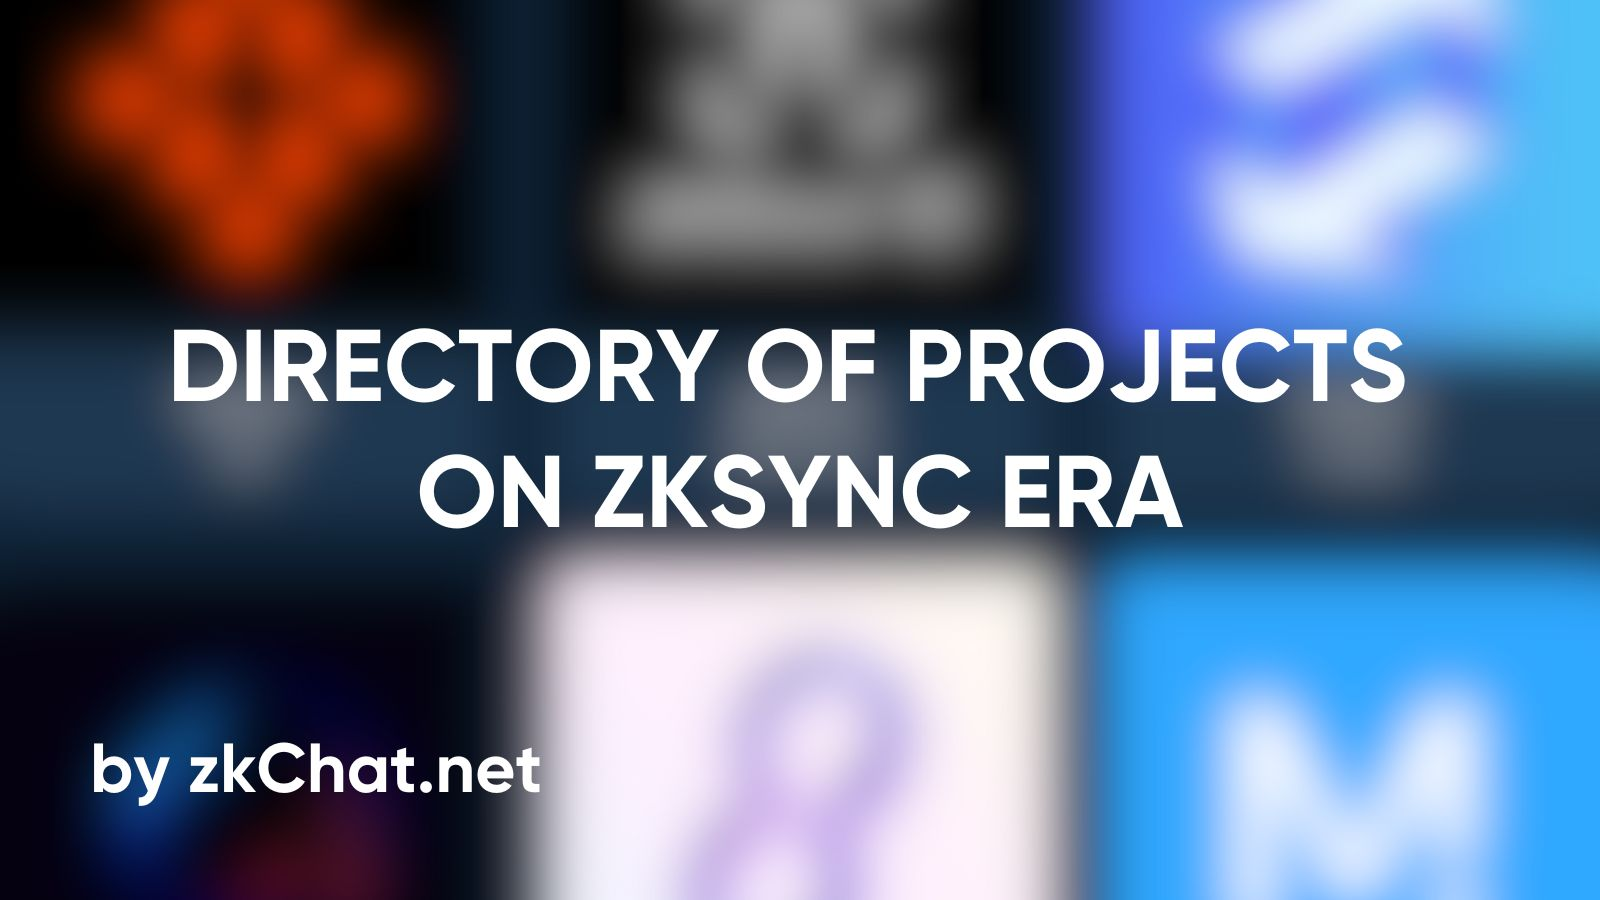
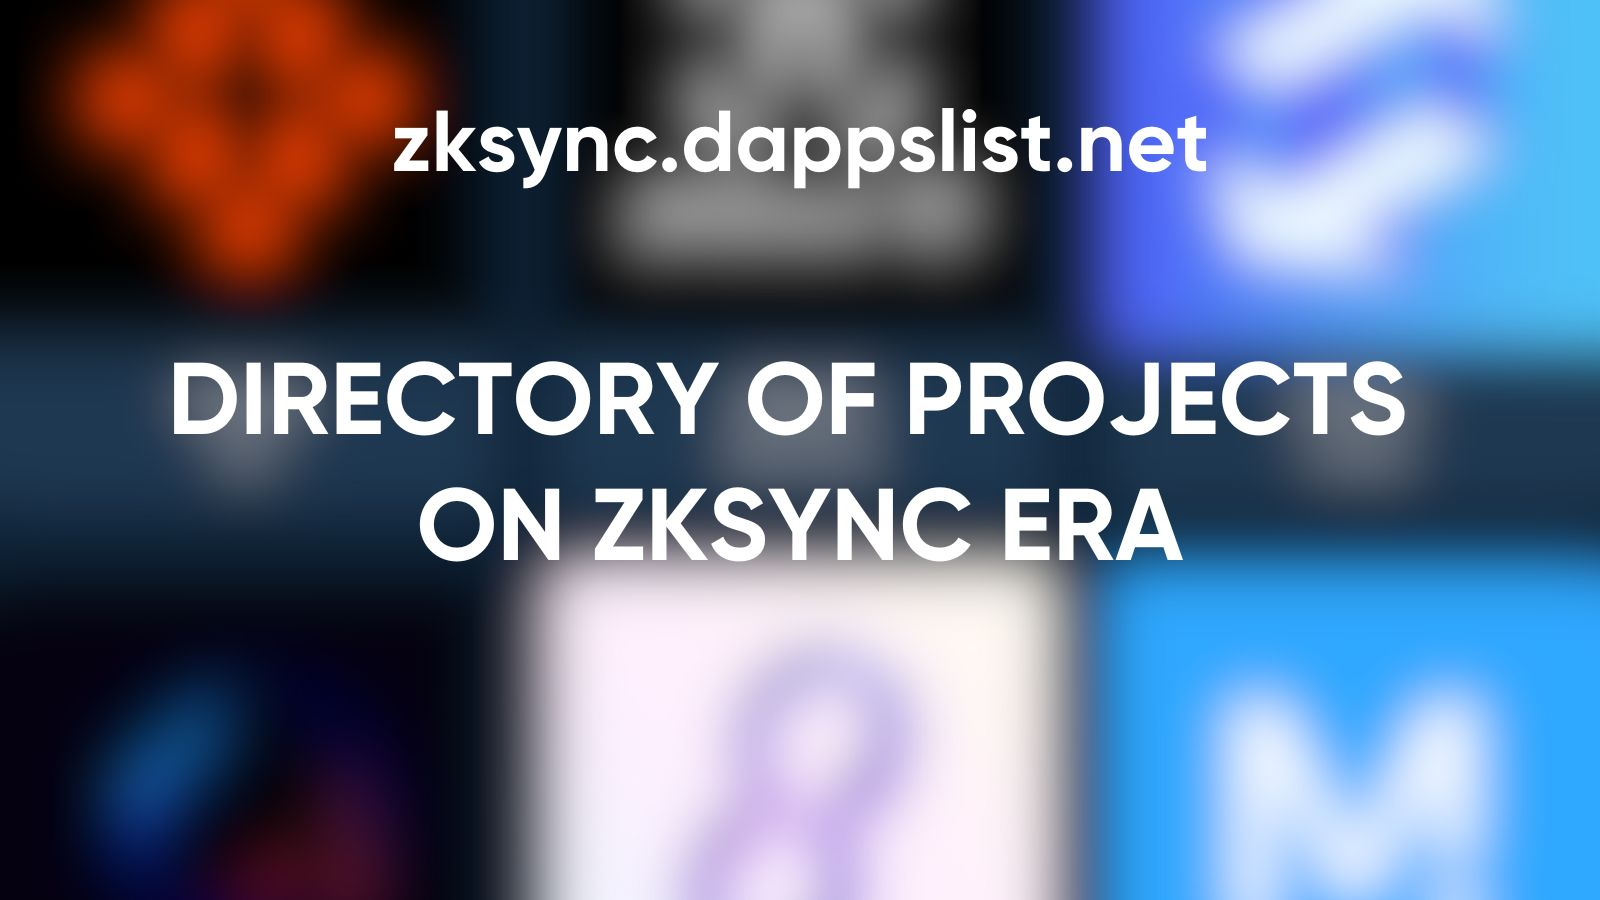
moved under the dapps list branding

Changed region(s): [[0.0938, 0.3422, 0.875, 0.6222], [0.25, 0.1244, 0.75, 0.2178], [0.0312, 0.8089, 0.3438, 0.9022]]

diff --git a/public/index.html b/public/index.html
@@ -16,14 +16,14 @@
 	
 		<meta property="og:title" content="Directory of projects on zkSync" />
     <meta property="og:description" content="Looking for projects on zkSync? Look no further, the most comprehensive list of live projects on zkSync Era!" />
-    <meta property="og:image" content="https://ecosystem.zkchat.net/cover.jpg" />
+    <meta property="og:image" content="https://zksync.dappslist.net/cover.jpg" />
 
     <meta name="twitter:card" content="summary_large_image">
     <meta name="twitter:site" content="@PunkDomains">
     <meta name="twitter:creator" content="@PunkDomains">
     <meta name="twitter:title" content="Directory of projects on zkSync">
     <meta name="twitter:description" content="Looking for projects on zkSync? Look no further, the most comprehensive list of live projects on zkSync Era!">
-    <meta name="twitter:image" content="https://ecosystem.zkchat.net/cover.jpg">
+    <meta name="twitter:image" content="https://zksync.dappslist.net/cover.jpg">
 	</head>
 	<body id="app-theme" class="app-theme">
 		<noscript>

diff --git a/src/components/shared/FooterCopyright.vue b/src/components/shared/FooterCopyright.vue
@@ -17,11 +17,11 @@ export default {
 		>
 			&copy; {{ copyrightDate }} by 
 			<a
-				href="https://zkchat.net"
+				href="https://dappslist.net"
 				target="__blank"
 				class="font-general-medium hover:underline hover:text-indigo-600 dark:hover:text-indigo-300 duration-500"
 			>
-				zkChat</a>. (<a
+				Dapps List</a>. (<a
 				href="https://github.com/realstoman/vuejs-tailwindcss-portfolio"
 				target="__blank"
 				class="font-general-medium hover:underline hover:text-indigo-600 dark:hover:text-indigo-300 duration-500"

diff --git a/src/components/shared/AppHeader.vue b/src/components/shared/AppHeader.vue
@@ -76,7 +76,7 @@ export default {
 				<!-- Header logos -->
 				<div>
 					<router-link class="text-3xl font-medium text-ternary-dark dark:text-ternary-light title-text" to="/"
-						>zkSync Ecosystem
+						>zkSync Dapps List
 					</router-link>
 				</div>
 

diff --git a/src/router/index.js b/src/router/index.js
@@ -7,7 +7,7 @@ const routes = [
 		name: 'Home',
 		component: Home,
 		meta: {
-			title: 'zkSync Ecosystem - Directory of projects on zkSync Era',
+			title: 'zkSync Dapps List - Directory of projects on zkSync Era',
 		},
 	},
 	{

diff --git a/README.md b/README.md
@@ -1,6 +1,6 @@
-# zkSync Ecosystem
+# zkSync Dapps List
 
-The unofficial zkSync Ecosystem directory maintained by the zkChat team.
+The unofficial zkSync Ecosystem directory maintained by the DappsList.net team.
 
 > The theme was developed by [Stoman](https://github.com/realstoman/vuejs-tailwindcss-portfolio).
 
